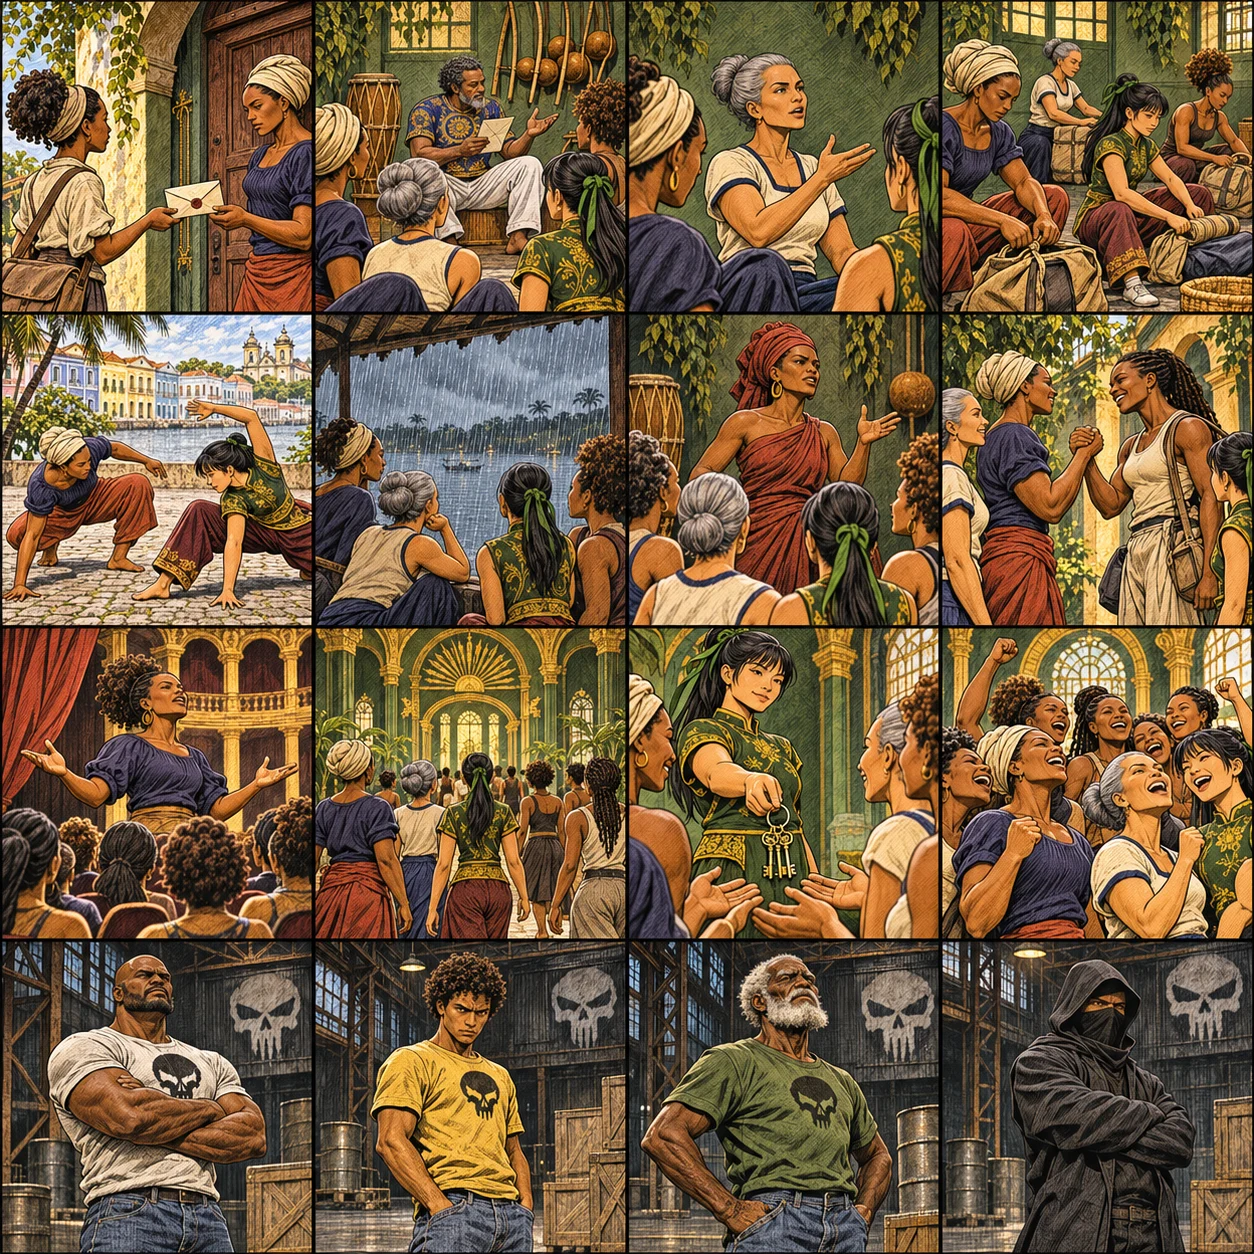
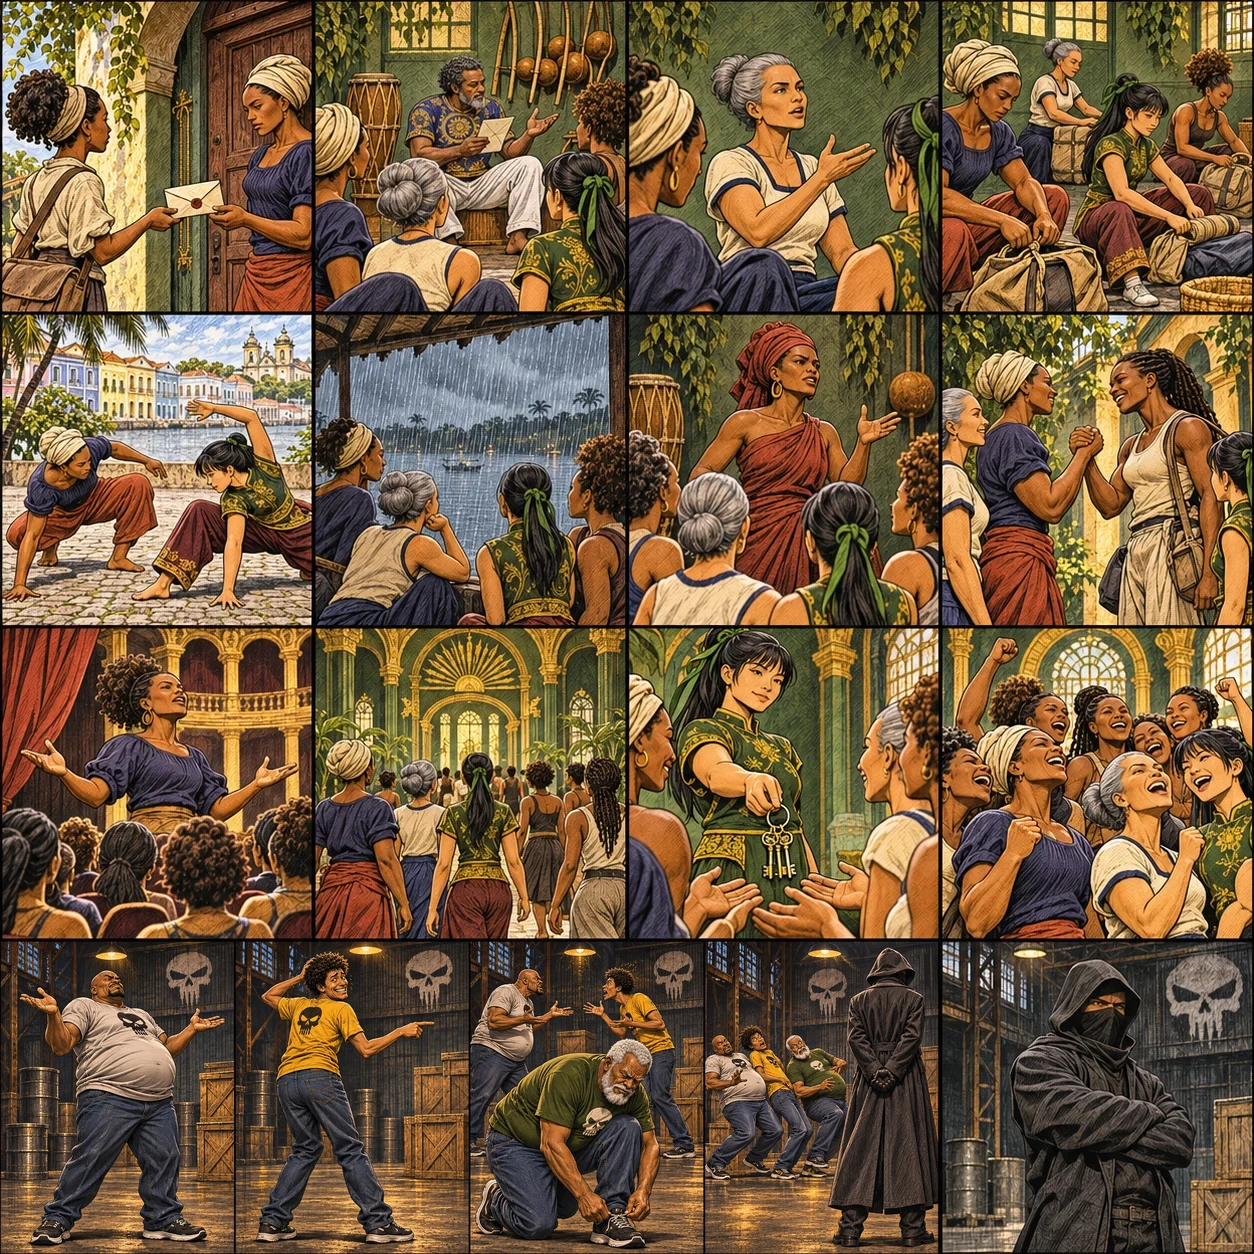
Update henchmen comics and add cosmetic comic timing

Changed region(s): [[0.0, 0.7464, 0.7464, 1.0]]

diff --git a/roda/story-v4.js b/roda/story-v4.js
@@ -16,9 +16,9 @@ const storyChapters=[
 ['CLAY AND FIRE','Belo Horizonte · Neide’s atelier','Neide moves the unfired bowls away from the circle.','The potters close the workshop doors and stay to witness the bout.',6,3],
 ['BEFORE THE PARADE','Rio de Janeiro · Marília’s workshop','Marília draws the costumes aside to clear the floor.','The last stitches can wait until the players finish their exchange.',8,2],
 ['THE DECIDING RODA','Curitiba · Meilin’s conservatory','In Meilin’s conservatory, one last qualifying test settles who represents the studio. A returning rival demands a rematch: the champion must prove the result was no accident.','When the music ends, the studio stands behind its representative. The stranger’s challengers are next.',10,3],
-['THE MYSTERY MAN’S THREE','Porto Alegre · Bento’s denim workroom','The studio qualifiers are over. The mystery man sends his three fighters: Bento, Caio, and Nestor. They work for him. Defeat them to reach the mystery man’s final challenge.','Bento steps into the roda as the first hired challenger. The studio stands behind you.',11,9],
-['CAIO · THE SECOND CHALLENGER','Natal · Working for the mystery man','Bento is defeated. Caio now enters for the mystery man. His speed is dangerous, but his doubts about his employer are growing.','Two victories will leave the stranger with only one guard between the champion and the final clause.',12,6],
-['NESTOR · THE LAST CHALLENGER','Ouro Preto · Working for the mystery man','Caio is defeated. Nestor is the mystery man’s last fighter. Beat his low traps and only the mystery man’s final challenge remains.','Beyond Nestor stands a door marked with a skull. A thin cyan line runs underneath it.',13,9],
+['THE MYSTERY MAN’S THREE','Porto Alegre · Bento’s denim workroom','The mystery man sends three hired fighters. Bento insists he has a plan, Caio says he can improve it, and Nestor quietly asks whether either man read the contract.','Bento strides toward the roda with his chest out. Caio starts to follow, then checks which way everyone else is facing.',11,9],
+['CAIO · THE SECOND CHALLENGER','Natal · Working for the mystery man','Bento bows out after an overconfident opening and one very noticeable stumble. Caio jogs in, takes the wrong angle, and turns it into a flourish before anyone can ask.','“That was intentional,” Caio says. Nestor, waiting at the edge of the roda, gives him a patient look.',12,6],
+['NESTOR · THE LAST CHALLENGER','Ouro Preto · Working for the mystery man','Caio’s flourish ends with both feet pointing the wrong way. Nestor becomes the last hired fighter, adjusts his shirt, and takes a careful moment before stepping into the roda.','He studies the skull-marked door. “I assume the contract covers the door too?” The Mystery Man does not answer.',13,9],
 ['THE MIRROR DOOR','Salvador · 2323','','',0,1],
 ['THE MAN BEHIND THE THREAT','The grey-and-gold skull studio','You have defeated the hired challengers. One opponent remains: the mystery man himself. Enter his grey-and-gold studio and face him inside the skull-marked roda.','“You have defeated my fighters. Now face me.” Every attack is a three-hit power combination. Defeat him to complete Arcade mode.',14,2]
 ];

diff --git a/roda/boot/profiles-v24.js b/roda/boot/profiles-v24.js
@@ -11,8 +11,8 @@ const profiles=[
 {name:'Jaci',home:'Fortaleza, Ceará',personality:'Playful and daring, she enjoys testing the edge of an opponent’s patience.',win:'You almost caught me. Almost makes a fine story.',lose:'That was clever! Now I want another turn.',pitch:200},
 {name:'Sol',home:'Rio de Janeiro, Rio de Janeiro',personality:'A white Irish-Brazilian fighter with copper-red hair and Celtic-trimmed training clothes; warm, charismatic, and fiercely loyal to her roda.',win:'A beautiful game. Shall we make the next one better?',lose:'You earned that smile. I will earn the next one.',pitch:226},
 {name:'Ayana',home:'Belo Horizonte, Minas Gerais',personality:'Composed and protective, she combines disciplined practice with generous teaching.',win:'Strength means little without control.',lose:'I lost the exchange, not my direction.',pitch:172},
-{name:'Bento',home:'Porto Alegre, Rio Grande do Sul',personality:'A patient hired challenger whose loyalty to his employer is beginning to crack.',win:'Nothing fancy. Just the right move at the right time.',lose:'Fair play. Let me get my footing again.',pitch:112},
-{name:'Caio',home:'Natal, Rio Grande do Norte',personality:'An ambitious hired challenger, eager to win but troubled by the threat to the studio.',win:'Did you see that? I have been practicing!',lose:'All right, I rushed it. I can do better.',pitch:139},
-{name:'Nestor',home:'Ouro Preto, Minas Gerais',personality:'The employer’s calculating final challenger, an old tactician who respects a worthy opponent.',win:'The oldest trick still works on the newest confidence.',lose:'Well now. You have given me something to think about.',pitch:98},
+{name:'Bento',home:'Porto Alegre, Rio Grande do Sul',personality:'A patient hired challenger whose loyalty to his employer is beginning to crack.',win:'Nothing fancy. I meant to do that bit at the end.',lose:'Fair play. I was saving that footing.',pitch:112},
+{name:'Caio',home:'Natal, Rio Grande do Norte',personality:'An ambitious hired challenger, eager to win but troubled by the threat to the studio.',win:'Did you see that? The extra step was part of the plan!',lose:'I meant to turn that way. Mostly.',pitch:139},
+{name:'Nestor',home:'Ouro Preto, Minas Gerais',personality:'The employer’s calculating final challenger, an old tactician who respects a worthy opponent.',win:'The oldest trick still works. The young men are still discussing the plan.',lose:'Well now. I was waiting for them to finish explaining.',pitch:98},
 {name:'Mestre Maré',home:'Salvador, Bahia',personality:'A commanding but generous fictional mestre, inspired visually by Mestre Curtis Pierre.',win:'Respect the circle. Then show me what you learned.',lose:'Very good. A teacher must welcome a worthy challenge.',pitch:104}
 ];
